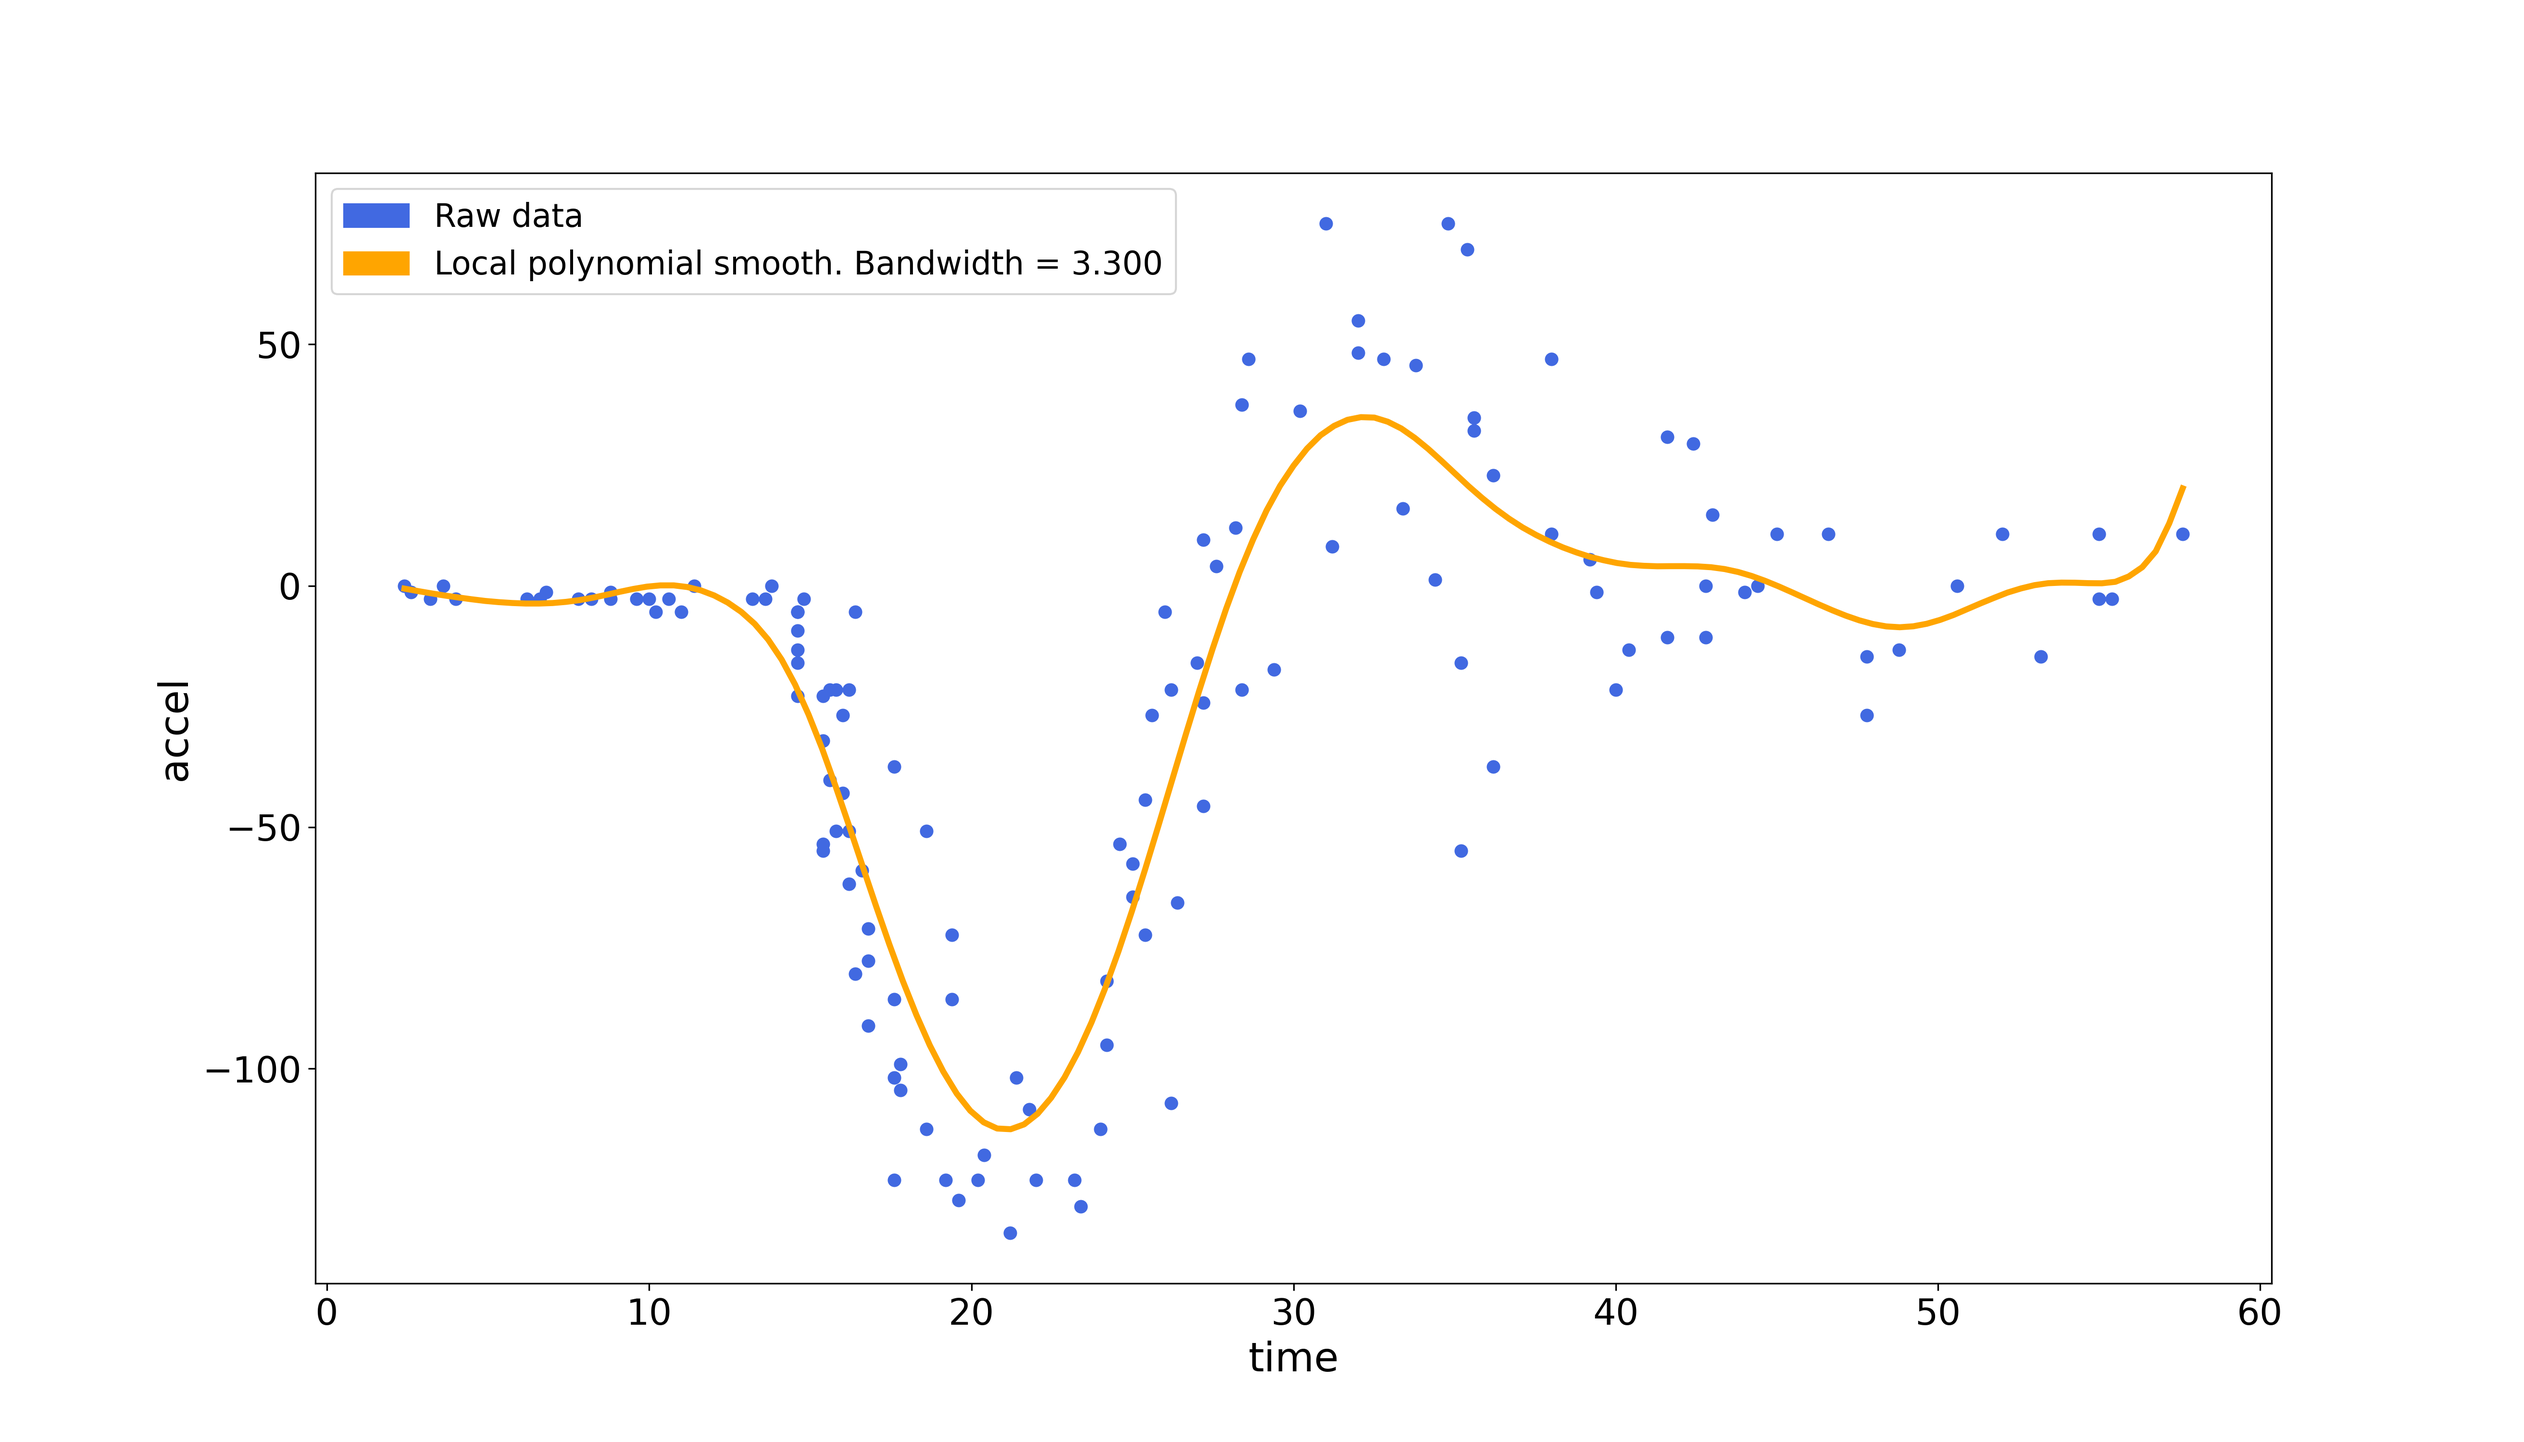
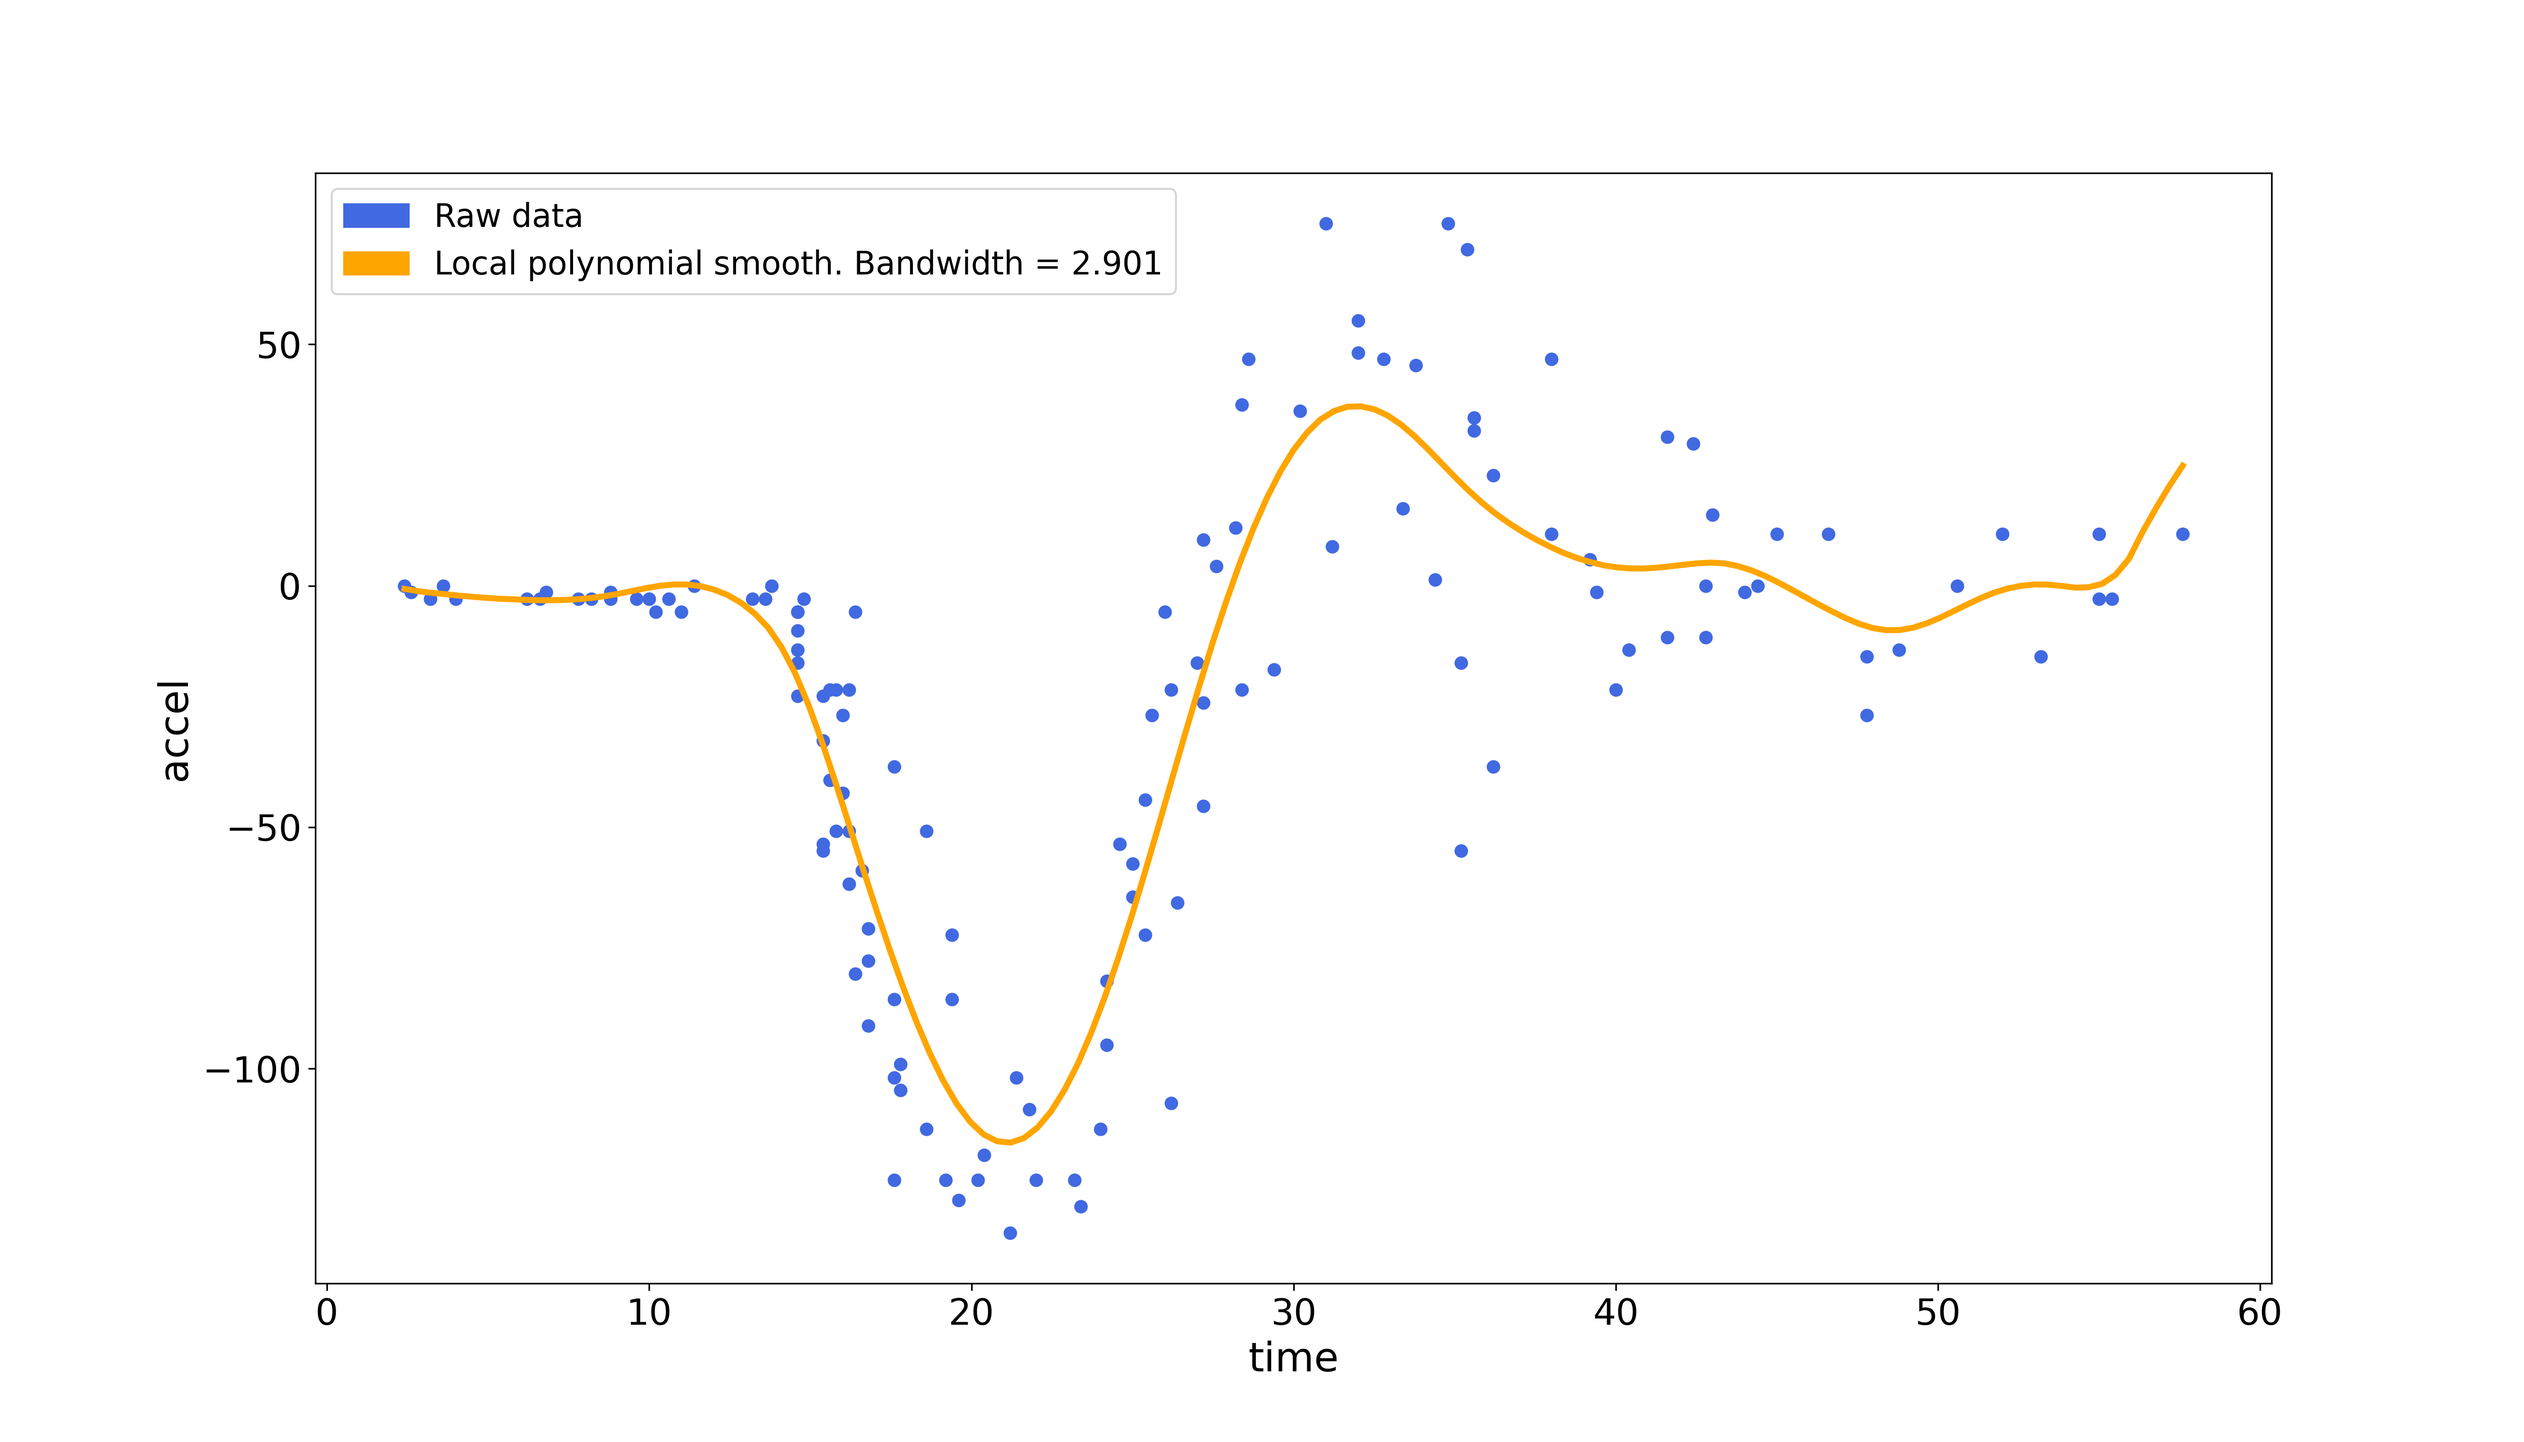
Update Quick-Start example.

diff --git a/README.md b/README.md
@@ -34,7 +34,7 @@ x, y = motorcycle["time"], motorcycle["accel"]
 # By default, only x and y need to be provided.
 # Derivative = 0 is chosen by default
 # and hence the polynomial degree = 0 + 1.
-rslt_default = kr.locpoly(x, y)`
+rslt_default = kr.locpoly(x, y)
 kr.plot(x, y, rslt_default, "motorcycle_default_fit.png")
 ```
 ![default fit](https://github.com/segsell/hypermodern-kernreg/blob/exampledata/docs/images/motorcycle_default_fit.png?raw=true)
@@ -42,9 +42,7 @@ kr.plot(x, y, rslt_default, "motorcycle_default_fit.png")
 ```python
 # We can improve on the default specification by
 # choosing a higher order polynomial
-# and - since a higher polynomial introduces more wiggliness -
-# a slightly larger bandwidth.
-rslt_user = kr.locpoly(x, y, degree=3, bandwidth=3.3)
+rslt_user = kr.locpoly(x, y, degree=3)
 kr.plot(x, y, rslt_user, "motorcycle_user_fit.png")
 ```
 ![user fit](https://github.com/segsell/hypermodern-kernreg/blob/exampledata/docs/images/motorcycle_user_fit.png?raw=true)
